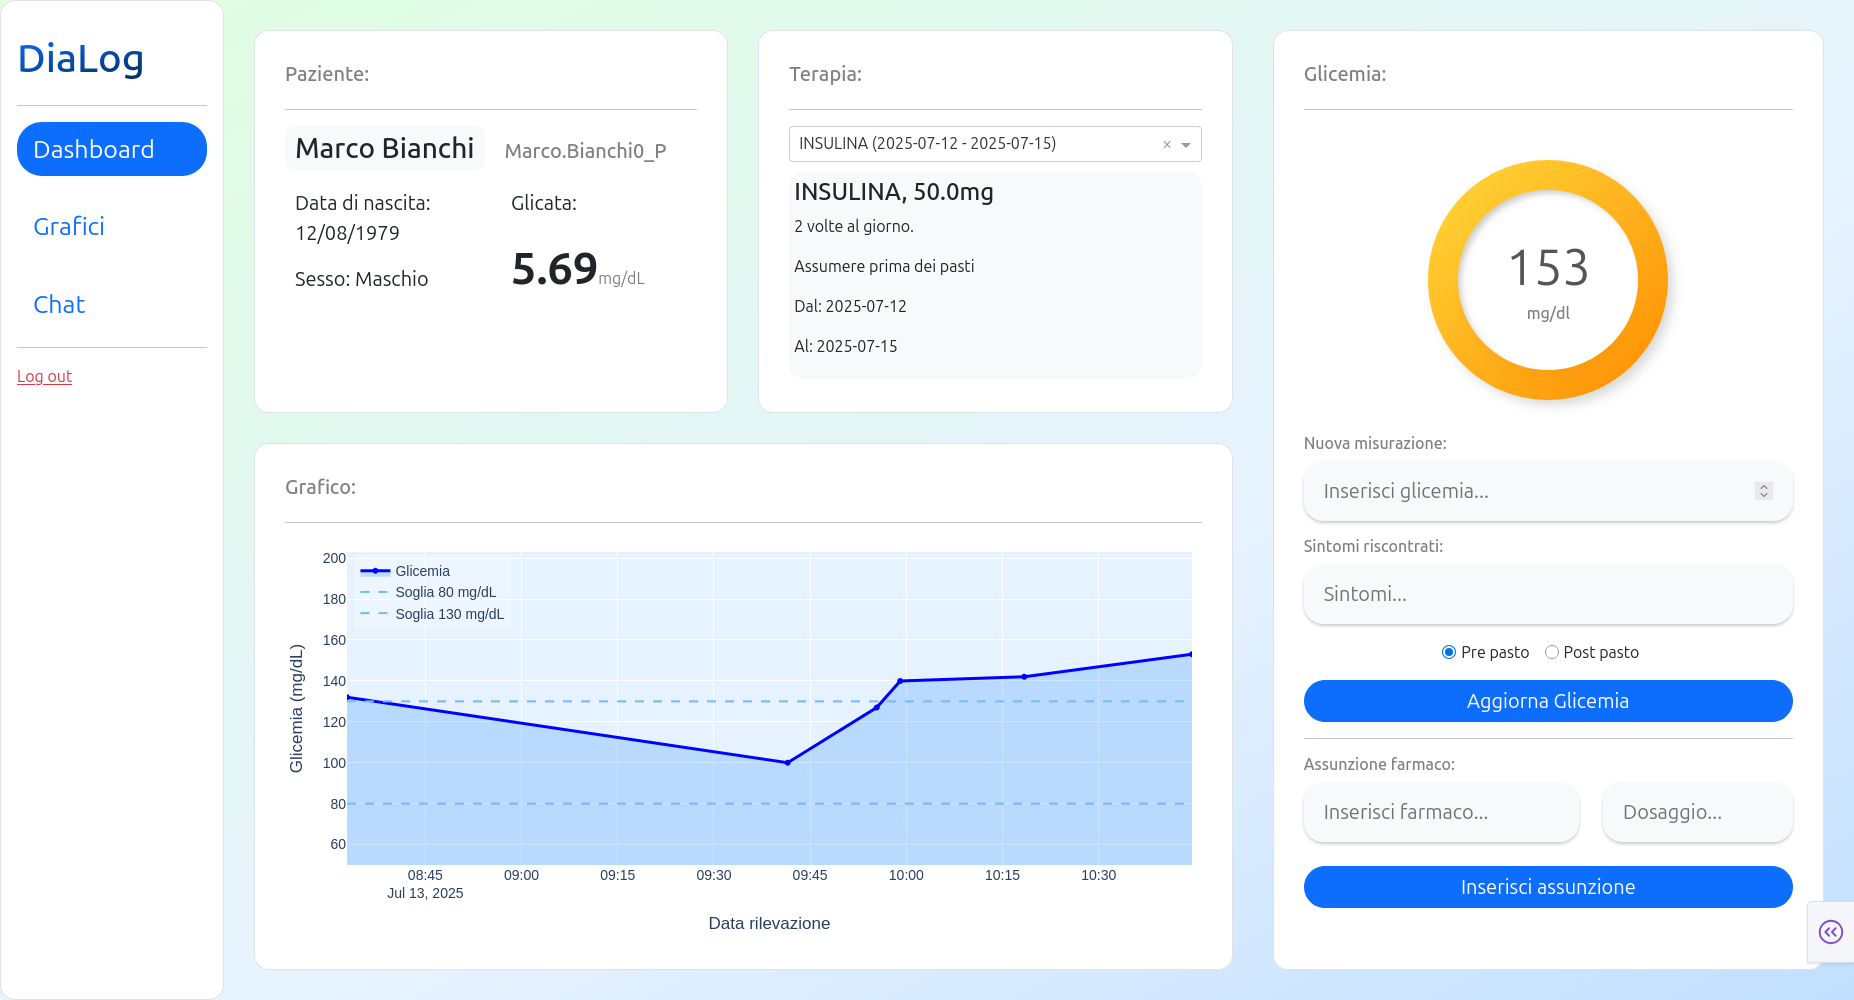
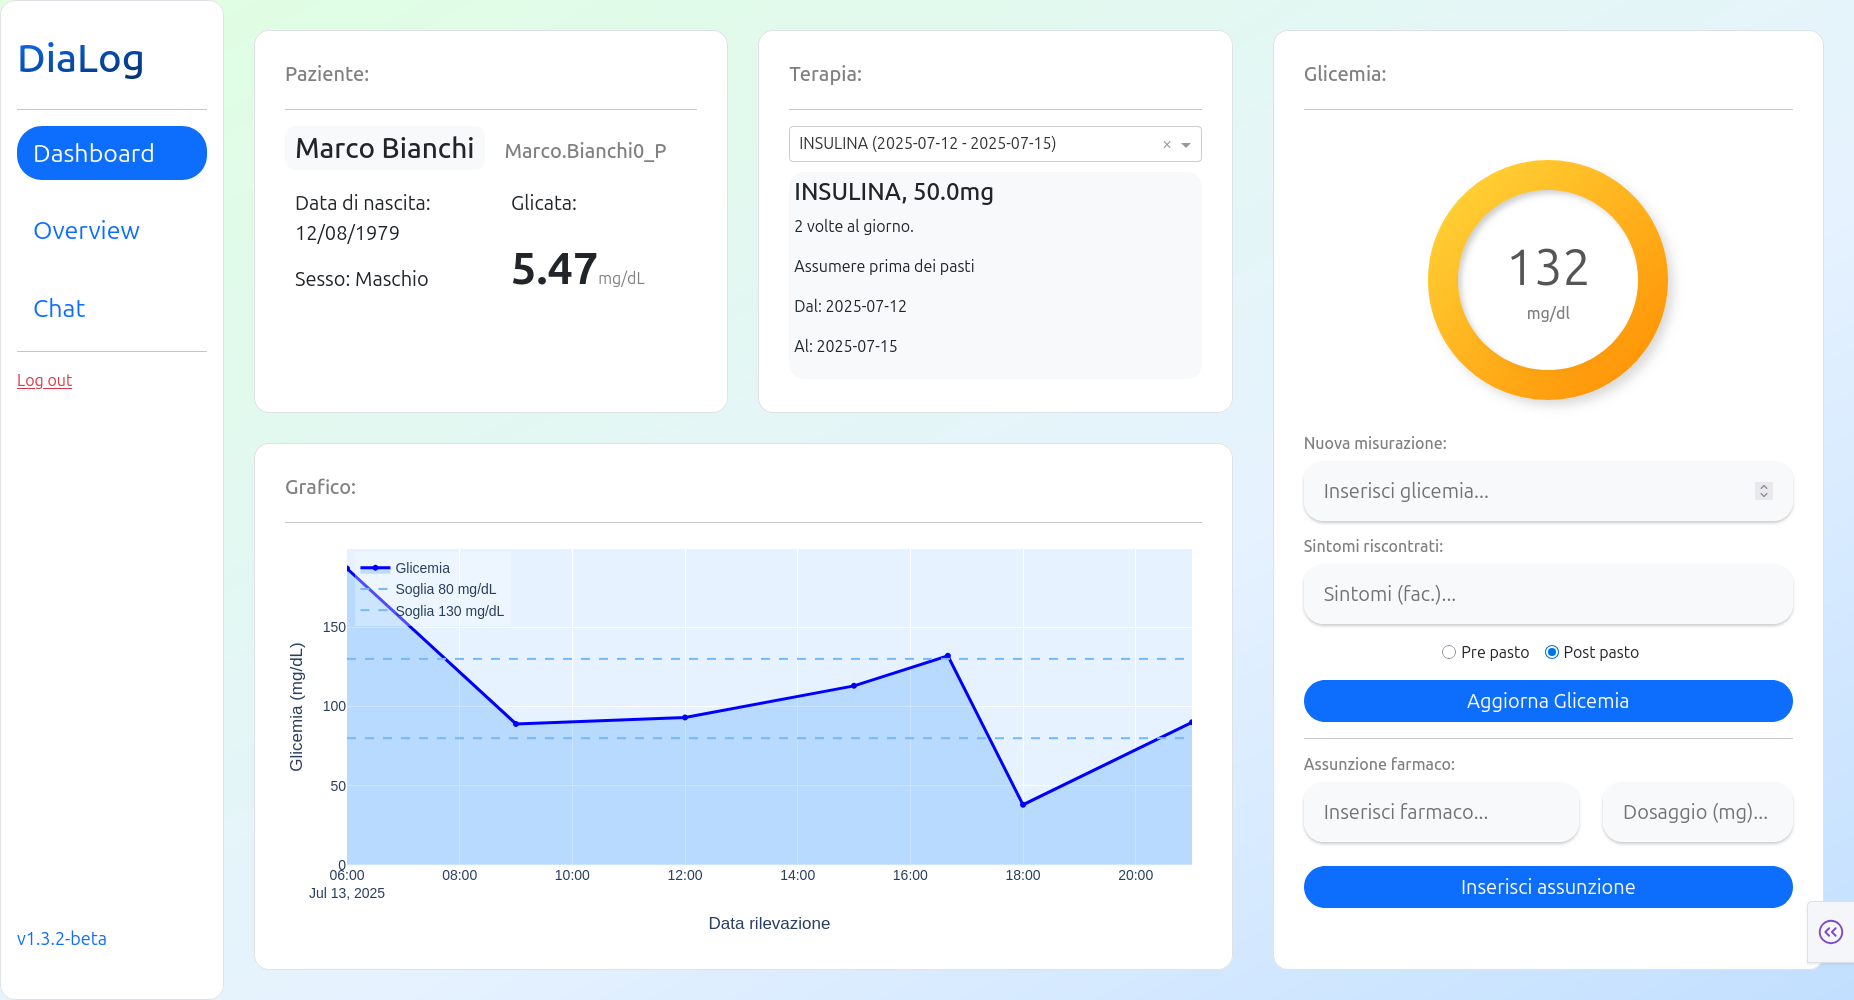
Home completa

diff --git a/bozze_codice/view.py b/bozze_codice/view.py
@@ -221,6 +221,8 @@ def home():
                         {"key": "1", "src": "/assets/img1.png", "img_style":{"max-height": "565px"}},
                         {"key": "2", "src": "/assets/img2.png", "img_style":{"max-height": "565px"}},
                         {"key": "3", "src": "/assets/img3.png", "img_style":{"max-height": "565px"}},
+                        {"key": "4", "src": "/assets/img4.png", "img_style":{"max-height": "565px"}},
+                        {"key": "5", "src": "/assets/img5.png", "img_style":{"max-height": "565px"}},                        
                     ],
                     controls=True,
                     indicators=True,
@@ -767,7 +769,7 @@ patient_dashboard = html.Div(
                 # Input glicemia
                 dcc.Input(
                     id="input-sintomi-riscontrati",
-                    placeholder="Sintomi...",
+                    placeholder="Sintomi (fac.)...",
                     type="text",
                     className="input mb-3"
                 ),
@@ -807,7 +809,7 @@ patient_dashboard = html.Div(
                                     # Inserimento del dosaggio
                                     dcc.Input(
                                         id="input-dosaggio-usato",
-                                        placeholder="Dosaggio...",
+                                        placeholder="Dosaggio (mg)...",
                                         type="text",
                                         className= 'input'  
                                     ),
